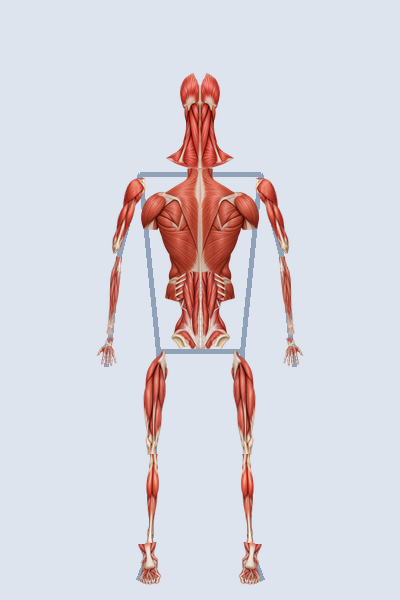
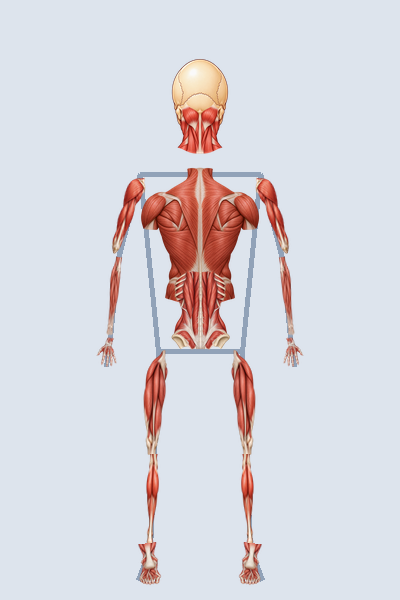
Versão 3.2: integrar músculos da cabeça ao crânio

Changed region(s): [[0.42, 0.09, 0.6, 0.3]]

diff --git a/musculos/rig.js b/musculos/rig.js
@@ -3,7 +3,7 @@
 
   // Cada região tem uma ilustração de frente e outra de costas.
   const parts = [
-    { id: 'rosto', asset: 'rosto', name: 'Rosto e nuca', sector: 'rosto', info: 'Músculos da expressão, mastigação e nuca movem a face e sustentam a cabeça.' },
+    { id: 'rosto', asset: 'rosto', name: 'Crânio e músculos da cabeça', sector: 'rosto', info: 'Músculos da expressão e mastigação aparecem sobre o crânio; os músculos posteriores ajudam a sustentar a cabeça.' },
     { id: 'torax', asset: 'torax', name: 'Tórax e dorso', sector: 'torax', info: 'Peitorais, trapézio e músculos do dorso movimentam os braços e estabilizam o tronco.' },
     { id: 'abdome', asset: 'abdome', name: 'Abdome e lombar', sector: 'abdome', info: 'Reto abdominal, oblíquos e músculos lombares flexionam, giram e sustentam o tronco.' },
     { id: 'braco_esquerdo', asset: 'braco', name: 'Braço esquerdo', sector: 'bracos', info: 'Deltoide, bíceps, braquial e tríceps movimentam ombro e cotovelo.' },
@@ -20,7 +20,7 @@
     { id: 'pe_direito', asset: 'pe', name: 'Pé direito', sector: 'pes', info: 'Músculos e tendões do pé ajudam no equilíbrio e no impulso ao caminhar.' }
   ];
   const sectors = [
-    ['todos', 'Musculatura completa'], ['rosto', 'Rosto e nuca'],
+    ['todos', 'Musculatura completa'], ['rosto', 'Crânio e cabeça'],
     ['torax', 'Tórax e dorso'], ['abdome', 'Abdome e lombar'],
     ['bracos', 'Braços'], ['antebracos', 'Antebraços'], ['coxas', 'Coxas'],
     ['pernas', 'Pernas'], ['maos', 'Mãos'], ['pes', 'Pés']
@@ -100,9 +100,9 @@
     const faceWidth = earLeft && earRight ? dist(earLeft, earRight) * 1.25 :
       eyeLeft && eyeRight ? dist(eyeLeft, eyeRight) * 2.55 : shoulderWidth * .48;
     if (face && faceWidth >= 12) {
-      put('rosto', { x: face.x,
-        y: face.y + faceWidth * (view === 'back' ? .34 : .03) },
-      faceWidth * (view === 'back' ? 1.08 : .98), faceWidth * (view === 'back' ? 1.38 : 1.00));
+      // A nova peça inclui a abóbada craniana. Ela começa acima das orelhas.
+      put('rosto', { x: face.x, y: face.y + faceWidth * .15 },
+        faceWidth * 1.05, faceWidth * (view === 'back' ? 1.35 : 1.50));
     }
 
     const sides = [

diff --git a/index.html b/index.html
@@ -3,7 +3,7 @@
 <head>
   <meta charset="utf-8">
   <meta name="viewport" content="width=device-width,initial-scale=1,viewport-fit=cover">
-  <title>Anatomia Mágica 3.1</title>
+  <title>Anatomia Mágica 3.2</title>
   <style>
     * { box-sizing: border-box; }
     body { margin: 0; background: #101827; color: #fff; font: 16px system-ui, sans-serif; }
@@ -34,7 +34,7 @@
 </head>
 <body>
   <header>
-    <div><h1>🫀 Anatomia Mágica</h1><small>Versão 3.1 · órgãos, ossos e músculos</small></div>
+    <div><h1>🫀 Anatomia Mágica</h1><small>Versão 3.2 · órgãos, ossos e músculos</small></div>
     <span id="status" role="status">Modo demonstração</span>
   </header>
   <div class="stage demo" id="stage">
@@ -102,7 +102,7 @@
     <p id="help-text">As posições são esquemáticas e aproximadas. Ao aproximar a câmera, as imagens acompanham a escala da cabeça, dos ombros ou dos quadris que estiverem visíveis. Se nenhum desses pontos for reconhecido, afaste um pouco a câmera. O app mantém a última vista quando a pessoa está de lado; se a detecção não corresponder à posição, escolha frente ou costas manualmente. A câmera é processada no aparelho.</p>
   </div>
   <script src="ossos/rig.js?v=2.0.2"></script>
-  <script src="musculos/rig.js?v=3.1"></script>
+  <script src="musculos/rig.js?v=3.2"></script>
   <script>
     const $ = selector => document.querySelector(selector);
     const stage = $('#stage');
@@ -313,7 +313,7 @@
       const entry = { image: new Image(), ready: false, error: false, crop: null };
       entry.image.onload = () => { entry.crop = imageCrop(entry.image); entry.ready = true; draw(performance.now()); };
       entry.image.onerror = () => { entry.error = true; console.error('Músculo ausente:', entry.image.src); draw(performance.now()); };
-      entry.image.src = `musculos/vistas/${region}/${viewFiles[view]}?v=3.1`;
+      entry.image.src = `musculos/vistas/${region}/${viewFiles[view]}?v=3.2`;
       muscleCache.set(key, entry);
       return entry;
     }

diff --git a/musculos/rascunhos/previsualizar.html b/musculos/rascunhos/previsualizar.html
@@ -23,11 +23,11 @@
 <body>
   <h1>Imagens musculares — prévia de trabalho</h1>
   <p>Dezoito imagens, com vista de frente e de costas para cada uma das nove regiões. O fundo quadriculado revela quais peças têm transparência suficiente para aparecer sobre a câmera.</p>
-  <div class="note">Estas imagens ainda não substituem os músculos da versão 3.0. A visualização simples dos PNGs mostrava cor nos pixels invisíveis, mas a composição sobre o quadriculado confirma sua transparência. O aplicativo usa cópias otimizadas em musculos/vistas/.</div>
+  <div class="note">A cabeça mostra a nova peça da versão 3.2, com músculos integrados ao crânio. Os outros grupos mostram os originais gerados para a versão 3.1. O aplicativo usa cópias otimizadas em <code>musculos/vistas/</code>.</div>
   <main class="grid" id="grid"></main>
   <script>
     const regions=[
-      ['rosto','Rosto','revisar enquadramento'],
+      ['rosto','Cabeça e crânio','nova peça 3.2'],
       ['torax','Tórax','transparência confirmada'],
       ['abdome','Abdome','revisar encaixe'],
       ['braco','Braço','transparência confirmada'],
@@ -45,7 +45,8 @@
       const pair=document.createElement('div');pair.className='pair';
       for(const [file,label] of [['01-frente.png','Frente'],['05-costas.png','Costas']]){
         const figure=document.createElement('figure'),img=document.createElement('img'),caption=document.createElement('figcaption');
-        img.src=`vistas/${folder}/${file}`;img.alt=`${name}, vista de ${label.toLowerCase()}`;img.loading='lazy';caption.textContent=label;
+        img.src=folder==='rosto' ? `cranio-v3.2/${file}` : `vistas/${folder}/${file}`;
+        img.alt=`${name}, vista de ${label.toLowerCase()}`;img.loading='lazy';caption.textContent=label;
         figure.append(img,caption);pair.append(figure);
       }
       article.append(pair);grid.append(article);

diff --git a/musculos/previsualizar.html b/musculos/previsualizar.html
@@ -27,7 +27,7 @@
   <main class="grid" id="grid"></main>
   <script>
     const regions=[
-      ['rosto','Rosto','frente e costas'],
+      ['rosto','Cabeça e crânio','frente e costas'],
       ['torax','Tórax','frente e costas'],
       ['abdome','Abdome','frente e costas'],
       ['braco','Braço','frente e costas'],

diff --git a/README.md b/README.md
@@ -4,9 +4,11 @@ Aplicativo web educativo de anatomia em realidade aumentada. Usa a câmera do ce
 
 ## Versão atual
 
-**3.1 (teste local concluído; validação com a câmera do celular pendente)**
+**3.2 (teste local concluído; validação com a câmera do celular pendente)**
 
-O arquivo `index.html` da raiz é a versão ativa. A versão 3.0 permanece preservada em `versoes/v3.0/` e no ZIP respectivo. As versões anteriores continuam disponíveis nas cópias locais em `versoes/` e `pacotes/` e no histórico do GitHub.
+O arquivo `index.html` da raiz é a versão ativa. A versão 3.1 permanece preservada em `versoes/v3.1/` e no ZIP respectivo. As versões anteriores continuam disponíveis nas cópias locais em `versoes/` e `pacotes/` e no histórico do GitHub.
+
+A versão 3.2 refaz a peça muscular da cabeça nas duas vistas: os músculos da face e da nuca agora aparecem sobre o crânio, com um pescoço curto ligando a peça ao tronco. O posicionamento sobre o rosto foi ajustado para incluir o topo da cabeça. As outras oito regiões musculares, os órgãos e os ossos permanecem disponíveis.
 
 A versão 3.1 substitui os desenhos esquemáticos do modo Músculos por 18 imagens anatômicas: frente e costas para rosto, tórax, abdome, braço, antebraço, coxa, perna, mão e pé. Elas formam 15 peças no corpo, com membros direito e esquerdo espelhados. As peças seguem as articulações reconhecidas e podem ser filtradas por nove regiões. Os originais estão em `musculos/rascunhos/vistas/`, as imagens transparentes otimizadas usadas no aplicativo estão em `musculos/vistas/`, e `musculos/previsualizar.html` mostra ambas as vistas.
 
@@ -51,4 +53,4 @@ Para conferir os 13 órgãos e suas vistas, execute `node tests/vistas.test.cjs`
 
 A câmera é processada no próprio aparelho pelo código do navegador. O aplicativo não possui contas, login ou servidor de armazenamento de imagens.
 
-As posições anatômicas são educativas e aproximadas. O rastreamento do corpo não mede a abertura da boca nem a contração muscular; a mandíbula tem controle manual, e os músculos seguem a posição dos segmentos corporais. Ainda é preciso conferir alinhamento, escala e desempenho da versão 3.1 com câmera real em um celular. O aplicativo não é uma ferramenta médica.
+As posições anatômicas são educativas e aproximadas. O rastreamento do corpo não mede a abertura da boca nem a contração muscular; a mandíbula tem controle manual, e os músculos seguem a posição dos segmentos corporais. Ainda é preciso conferir alinhamento, escala e desempenho da versão 3.2 com câmera real em um celular. O aplicativo não é uma ferramenta médica.

diff --git a/VERSOES.md b/VERSOES.md
@@ -123,10 +123,17 @@ Se uma versão nova apresentar erro, restaure o `index.html` da última pasta es
 - A demonstração exibe uma silhueta muscular nas duas vistas. Os 13 órgãos e 16 ossos permanecem acessíveis em seus modos.
 - Testes locais passaram para as três modalidades, ambas as vistas, filtros, movimento dos membros e closes. A precisão visual com câmera real ainda precisa de conferência no celular.
 
-### 3.1 — versão ativa; validação no celular pendente
+### 3.1 — preservada; validação no celular pendente
 
 - Substituídos os desenhos esquemáticos por 18 ilustrações musculares anatômicas transparentes: frente e costas para nove regiões.
 - As imagens formam 15 peças no corpo: rosto, tórax e abdome centrais, mais braços, antebraços, coxas, pernas, mãos e pés dos dois lados. Cada membro segue seus pontos articulares e a imagem é espelhada para o lado oposto.
 - Mantidos os modos Órgãos e Ossos separados, os filtros por região e a troca de vista frente/costas. A câmera continua ativa na troca de sistema.
 - Os originais das ilustrações foram preservados em `musculos/rascunhos/`; as cópias transparentes otimizadas para o aplicativo estão em `musculos/vistas/`.
 - Prévia e testes locais confirmaram as 18 imagens, as duas vistas, o movimento dos membros, os closes e os modos anteriores. A escala final com câmera real ainda precisa de conferência no celular.
+
+### 3.2 — versão ativa; validação no celular pendente
+
+- Refeita a peça muscular da cabeça de frente e de costas: músculos da face e da nuca foram integrados ao crânio, com pescoço curto nas duas vistas.
+- Ajustados altura e posição da peça para mostrar o topo do crânio e aproximar o pescoço do tórax, inclusive na demonstração e nos closes.
+- As imagens originais novas foram preservadas em `musculos/rascunhos/cranio-v3.2/`; as duas imagens otimizadas substituíram apenas a peça da cabeça em `musculos/vistas/rosto/`.
+- Os demais músculos, os 13 órgãos e os 16 ossos seguem separados em seus modos. Testes locais passaram; o encaixe com câmera real ainda precisa ser conferido no celular.

diff --git a/musculos/README.md b/musculos/README.md
@@ -1,6 +1,6 @@
-# Músculos — Anatomia Mágica 3.1
+# Músculos — Anatomia Mágica 3.2
 
-O modo Músculos usa 18 ilustrações anatômicas, uma vista frontal e uma posterior para cada uma das nove regiões: rosto, tórax, abdome, braço, antebraço, coxa, perna, mão e pé. As imagens finais com transparência ficam em `vistas/`; os originais permanecem em `rascunhos/vistas/`. Abra `previsualizar.html` para comparar as duas vistas.
+O modo Músculos usa 18 ilustrações anatômicas, uma vista frontal e uma posterior para cada uma das nove regiões: cabeça, tórax, abdome, braço, antebraço, coxa, perna, mão e pé. Na versão 3.2, a peça da cabeça foi refeita para mostrar os músculos integrados ao crânio e ligados por um pescoço curto ao tronco. As imagens finais transparentes ficam em `vistas/`; os originais da cabeça estão em `rascunhos/cranio-v3.2/`, e os demais em `rascunhos/vistas/`. Abra `previsualizar.html` para comparar as duas vistas.
 
 O arquivo `rig.js` posiciona 15 peças sobre o corpo: três peças centrais e seis pares de membros. Os pares usam as mesmas ilustrações espelhadas para o lado esquerdo e direito. Braços, antebraços, coxas e pernas acompanham ombros, cotovelos, punhos, quadris, joelhos e tornozelos reconhecidos pelo MediaPipe Pose. Mãos e pés seguem punhos e tornozelos, com auxílio dos pontos dos dedos quando disponíveis. Rosto e tronco usam as referências corporais visíveis, inclusive em closes.
 

diff --git a/musculos/rascunhos/REVISAO.md b/musculos/rascunhos/REVISAO.md
@@ -2,6 +2,8 @@
 
 As 18 imagens deste diretório são os originais gerados por IA para as nove regiões, com frente e costas. Uma visualização simples do RGB mostrava cor ao redor das peças, mas a conferência sobre fundo quadriculado confirmou que esses pixels são transparentes.
 
+Na versão 3.2, a região da cabeça foi refeita. As novas vistas e uma alternativa frontal sem pescoço estão em `cranio-v3.2/`. As vistas antigas da cabeça continuam preservadas em `vistas/rosto/` para comparação e restauração.
+
 As cópias utilizadas pelo aplicativo ficam em `musculos/vistas/`. Nelas, os pixels invisíveis foram zerados e a resolução foi reduzida sem alterar o desenho muscular; o tamanho total passou de aproximadamente 35 MB para 13 MB.
 
 O encaixe das peças no corpo foi conferido em uma composição estática de frente e costas. A escala sobre uma pessoa real ainda deve ser testada no celular.
